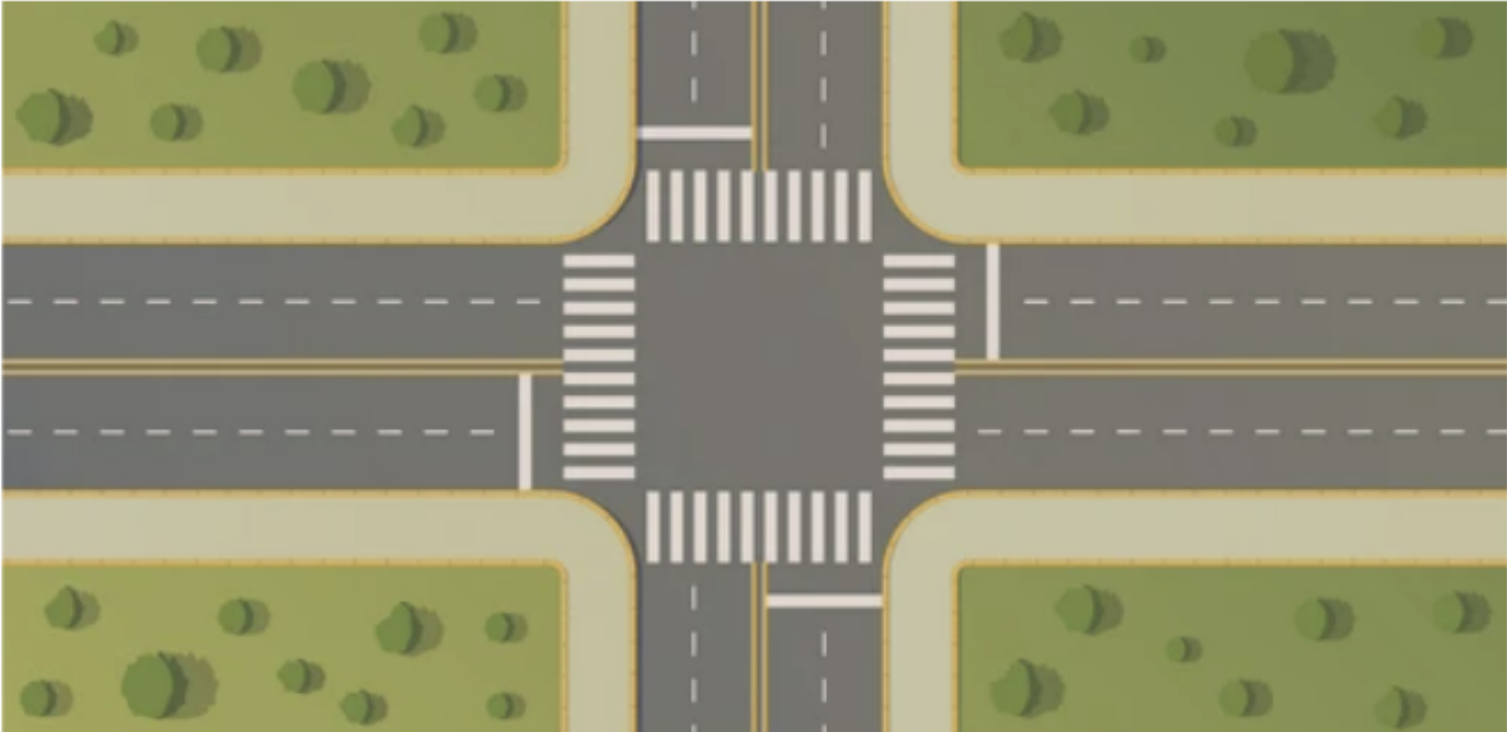
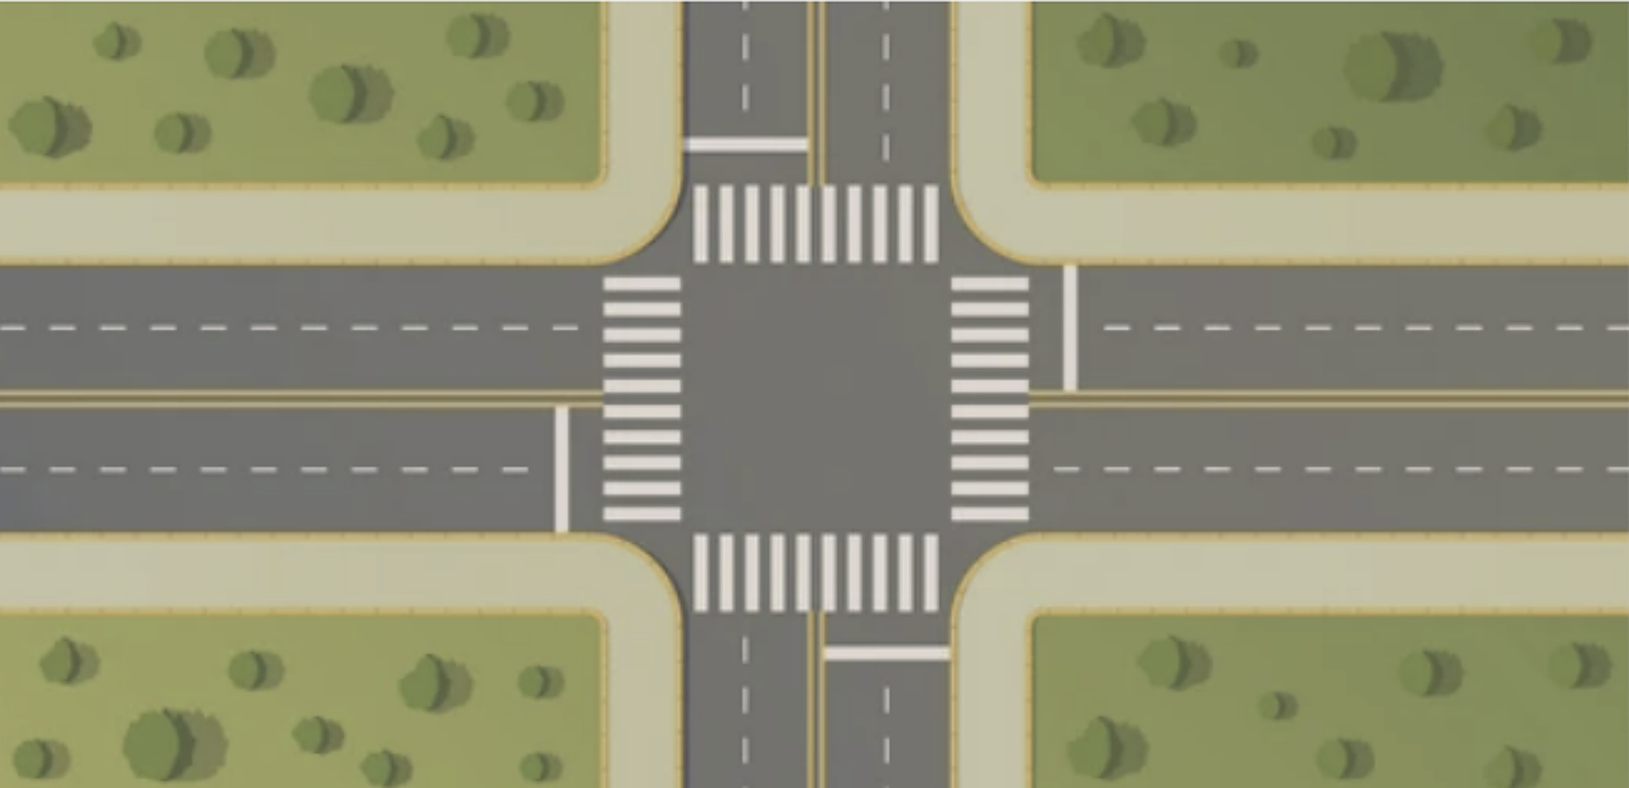
fix the signal timings

diff --git a/simulation.py b/simulation.py
@@ -18,21 +18,21 @@ currentYellow = 0   # Indicates whether yellow signal is on or off
 speeds = {'car':2.25, 'bus':1.8, 'truck':1.8, 'bike':2.5}  # average speeds of vehicles km/hour
 
 # Coordinates of vehicles' start
-x = {'right':[0,0,0], 'down':[755,727,697], 'left':[1400,1400,1400], 'up':[602,627,657]}    
-y = {'right':[348,370,398], 'down':[0,0,0], 'left':[498,466,436], 'up':[800,800,800]}
+x = {'right':[0,0,0], 'down':[785,841,891], 'left':[1400,1400,1400], 'up':[650,700,750]}    
+y = {'right':[245,300,350], 'down':[0,0,0], 'left':[380,440,480], 'up':[800,800,800]}
 
 vehicles = {'right': {0:[], 1:[], 2:[], 'crossed':0}, 'down': {0:[], 1:[], 2:[], 'crossed':0}, 'left': {0:[], 1:[], 2:[], 'crossed':0}, 'up': {0:[], 1:[], 2:[], 'crossed':0}}
 vehicleTypes = {0:'car', 1:'bus', 2:'truck', 3:'bike'}
 directionNumbers = {0:'right', 1:'down', 2:'left', 3:'up'}
 
 # Coordinates of signal image, timer, and vehicle count
-signalCoods = [(428,111),(985,111),(985,580),(428,580)]
-signalTimerCoods = [(430,91),(985,91),(985,560),(430,560)]
+signalCoods = [(470,130),(1033,130),(1030,620),(470,620)]
+signalTimerCoods = [(470,112),(1033,112),(1030,605),(470,605)]
 
 # Coordinates of stop lines
-stopLines = {'right': 590, 'down': 330, 'left': 985, 'up': 535}
-defaultStop = {'right': 580, 'down': 320, 'left': 985, 'up': 545}
-stops = {'right': [480,480,480], 'down': [320,320,320], 'left': [985,985,985], 'up': [545,545,545]}
+stopLines = {'right': 590, 'down': 300, 'left': 985, 'up': 535}
+defaultStop = {'right': 580, 'down': 300, 'left': 985, 'up': 535}
+stops = {'right': [480,480,480], 'down': [310,310,310], 'left': [985,985,985], 'up': [525,525,525]}
 
 # Gap between vehicles
 stoppingGap = 20    # stopping gap
